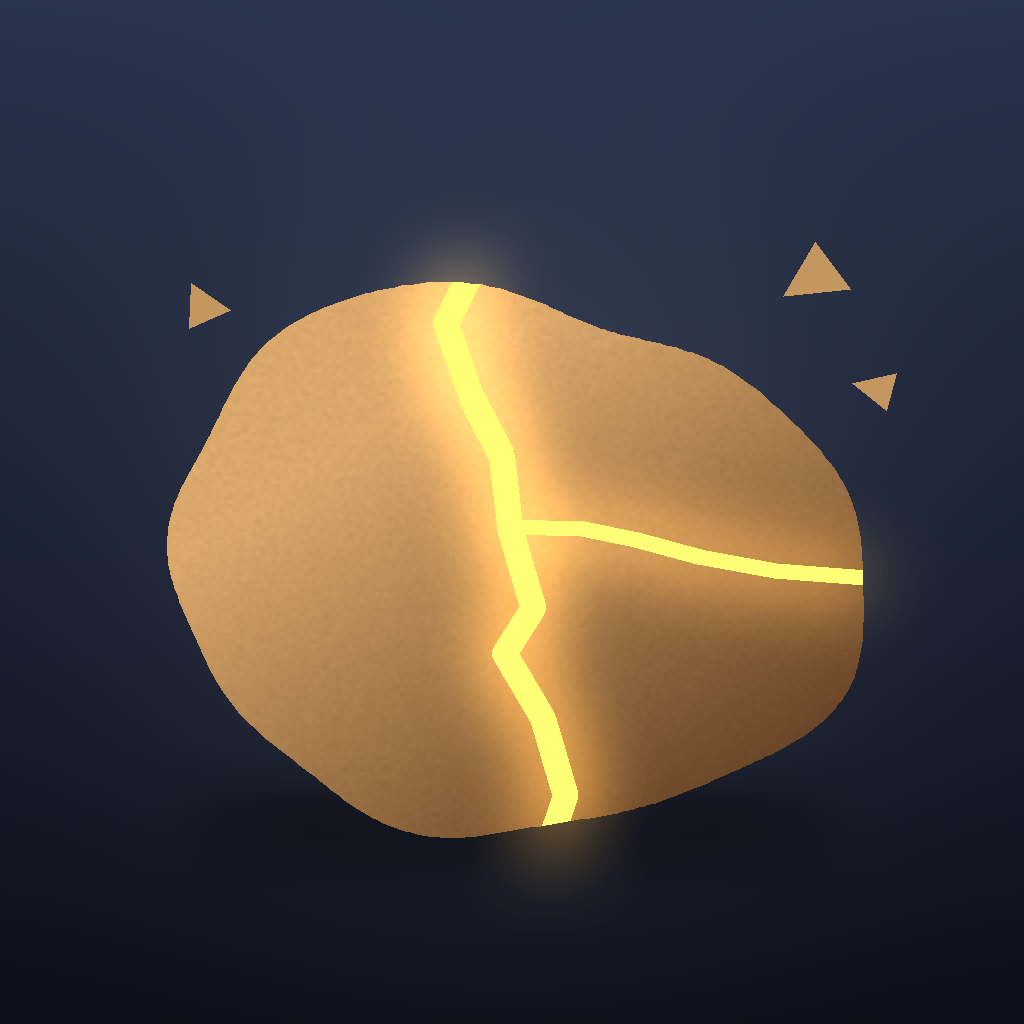
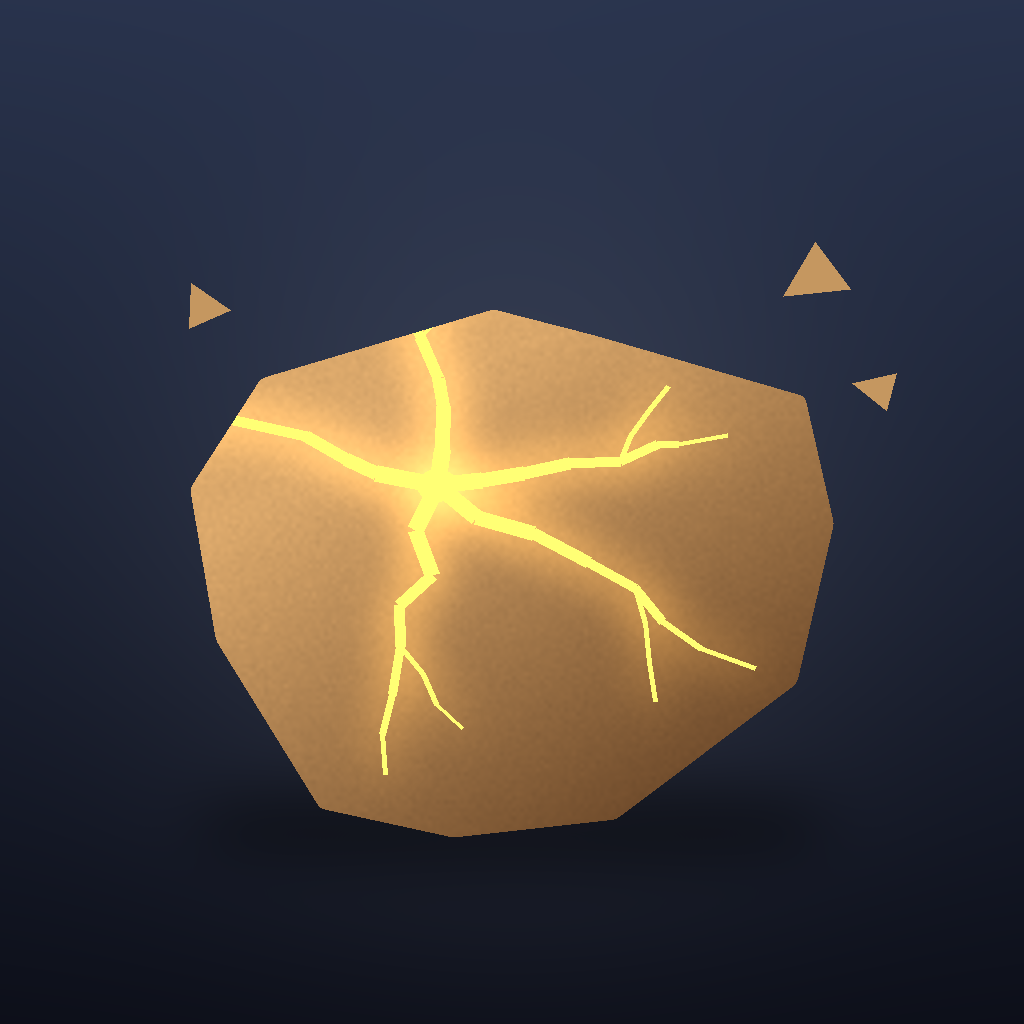
Политика: функция «Своё фото» — картинка остаётся на устройстве; иконка как в игре

diff --git a/ru/privacy.html b/ru/privacy.html
@@ -14,7 +14,8 @@ h1{font-size:28px;margin:0 0 6px}h2{font-size:19px;margin:18px 0 6px}.muted{colo
 <nav><a href="privacy.html">Конфиденциальность</a><a href="terms.html">Условия</a><a href="support.html">Поддержка</a></nav>
 <section><h1>Политика конфиденциальности</h1><p class="muted">Обновлено: 4 октября 2026</p>
 <p><b>Crusher Compound не собирает никаких личных данных.</b></p>
-<h2>Что мы собираем</h2><p>Ничего. В приложении нет учётных записей, аналитики, рекламы и отслеживания. Оно не пользуется камерой, микрофоном, геопозицией, контактами и фотографиями.</p>
+<h2>Что мы собираем</h2><p>Ничего. В приложении нет учётных записей, аналитики, рекламы и отслеживания. Оно не пользуется камерой, микрофоном, геопозицией и контактами.</p>
+<h2>Своё фото</h2><p>Если вы пользуетесь функцией «Своё фото», вы выбираете одну картинку через системное окно выбора фото. Приложение получает только её — доступа к остальной галерее у него нет, — хранит копию только на вашем устройстве, чтобы показать её в игре, и никуда её не отправляет. Новая картинка заменяет прежнюю; при удалении приложения она удаляется.</p>
 <h2>Что хранится на устройстве</h2><p>Прогресс (сколько разбито камней, найдено кристаллов, что выбрано) и настройки сохраняются только на вашем устройстве, в хранилище самого приложения. Удалите приложение — удалятся и они.</p>
 <h2>Покупки</h2><p>Разовую покупку «Полная версия» целиком проводит Apple через App Store. Мы не видим ни платёжных данных, ни Apple ID. Приложение лишь спрашивает у Apple, была ли покупка, чтобы открыть содержимое.</p>
 <h2>Дети</h2><p>Приложение не собирает данных ни у кого, в том числе у детей младше 13 лет.</p>

diff --git a/uk/privacy.html b/uk/privacy.html
@@ -14,7 +14,8 @@ h1{font-size:28px;margin:0 0 6px}h2{font-size:19px;margin:18px 0 6px}.muted{colo
 <nav><a href="privacy.html">Конфіденційність</a><a href="terms.html">Умови</a><a href="support.html">Підтримка</a></nav>
 <section><h1>Політика конфіденційності</h1><p class="muted">Оновлено: 4 жовтня 2026</p>
 <p><b>Crusher Compound не збирає жодних особистих даних.</b></p>
-<h2>Що ми збираємо</h2><p>Нічого. У застосунку немає облікових записів, аналітики, реклами та відстеження. Він не використовує камеру, мікрофон, геопозицію, контакти й фотографії.</p>
+<h2>Що ми збираємо</h2><p>Нічого. У застосунку немає облікових записів, аналітики, реклами та відстеження. Він не використовує камеру, мікрофон, геопозицію й контакти.</p>
+<h2>Своє фото</h2><p>Якщо ви користуєтеся функцією «Своє фото», ви обираєте одну картинку через системне вікно вибору фото. Застосунок отримує лише її — доступу до решти галереї в нього немає, — зберігає копію лише на вашому пристрої, щоб показати її в грі, і нікуди її не надсилає. Нова картинка замінює попередню; під час видалення застосунку вона видаляється.</p>
 <h2>Що зберігається на пристрої</h2><p>Прогрес (скільки розбито каменів, знайдено кристалів, що вибрано) і налаштування зберігаються лише на вашому пристрої, у сховищі самого застосунку. Видаліть застосунок — видаляться й вони.</p>
 <h2>Покупки</h2><p>Разову покупку «Повна версія» повністю проводить Apple через App Store. Ми не бачимо ні платіжних даних, ні Apple ID. Застосунок лише питає в Apple, чи була покупка, щоб відкрити вміст.</p>
 <h2>Діти</h2><p>Застосунок не збирає даних ні в кого, зокрема в дітей до 13 років.</p>

diff --git a/privacy.html b/privacy.html
@@ -14,7 +14,8 @@ h1{font-size:28px;margin:0 0 6px}h2{font-size:19px;margin:18px 0 6px}.muted{colo
 <nav><a href="privacy.html">Privacy</a><a href="terms.html">Terms</a><a href="support.html">Support</a></nav>
 <section><h1>Privacy Policy</h1><p class="muted">Last updated: October 4, 2026</p>
 <p><b>Crusher Compound does not collect any personal data.</b></p>
-<h2>What we collect</h2><p>Nothing. The app has no accounts, no analytics, no advertising and no tracking. It does not use the camera, microphone, location, contacts or photos.</p>
+<h2>What we collect</h2><p>Nothing. The app has no accounts, no analytics, no advertising and no tracking. It does not use the camera, microphone, location or contacts.</p>
+<h2>Your Photo</h2><p>If you use the optional “Your Photo” feature, you pick one picture with the system photo picker. The app receives only that picture — it has no access to the rest of your library — keeps a copy only on your device to show it in the game, and never uploads or shares it. Choosing another picture replaces it; deleting the app deletes it.</p>
 <h2>What stays on your device</h2><p>Your progress (stones broken, crystals found, chosen stone, tool and scene) and settings are saved only on your device, in the app's own storage. Deleting the app deletes them.</p>
 <h2>Purchases</h2><p>The one-time “Full Version” purchase is processed entirely by Apple through the App Store. We never see your payment details or Apple ID. The app only asks Apple whether the purchase was made, to unlock content.</p>
 <h2>Children</h2><p>The app collects no data from anyone, including children under 13.</p>
